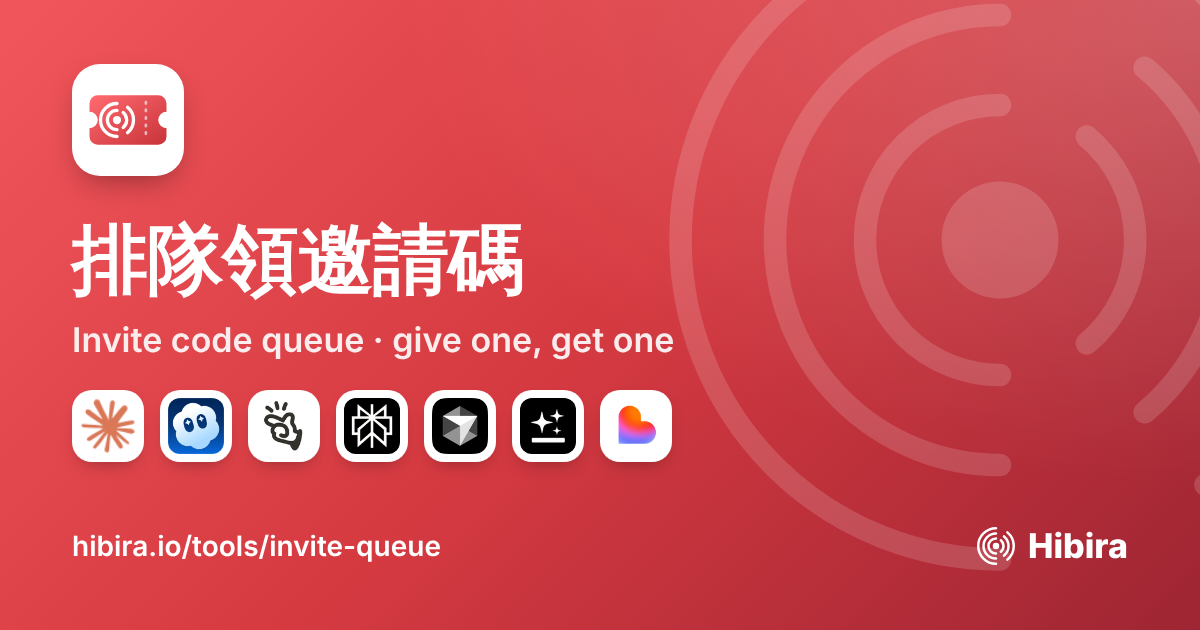
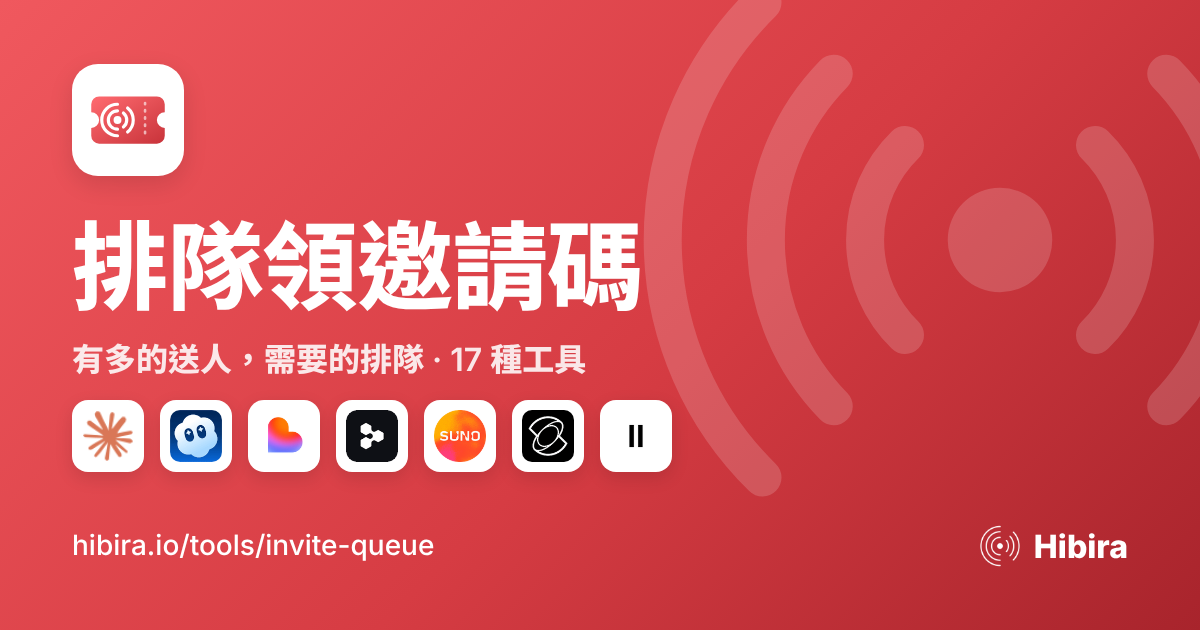
Invite queue: a first page per language with its own share preview
A link posted in English showed the zh-TW share image with a mixed
Chinese and English description. Now /en/, /zh-cn/, /ja/, /ko/, /th/ and
/vi/ each have their own title, description and share image (zh-TW stays
at /), with hreflang links between them. The interface follows the path
and remembers it, so /get and /give stay in that language. The share
images show today's brands.

Claude-Session: https://claude.ai/code/session_01SHtsCB1pgLC5Q799EmTqhW

diff --git a/nextjs-invite-queue/lib/seo.ts b/nextjs-invite-queue/lib/seo.ts
@@ -1,0 +1,76 @@
+import type { Metadata } from 'next';
+import type { Lang } from './i18n';
+
+// What link previews and search engines show for the hosted copy, one set
+// per language. The first page (/) is zh-TW; /en/, /ja/ and the rest each
+// carry their own title, description and share image, so a link posted in
+// one language previews in that language. The interface follows the path
+// too (lib/i18n.ts).
+
+export const LANG_SLUGS: Record<Lang, string> = {
+  en: 'en',
+  'zh-TW': 'zh-tw',
+  'zh-CN': 'zh-cn',
+  ja: 'ja',
+  ko: 'ko',
+  th: 'th',
+  vi: 'vi',
+};
+
+const OG_LOCALES: Record<Lang, string> = { en: 'en_US', 'zh-TW': 'zh_TW', 'zh-CN': 'zh_CN', ja: 'ja_JP', ko: 'ko_KR', th: 'th_TH', vi: 'vi_VN' };
+
+const TOOLS = 'Claude Code, Sora, Lovable, Windsurf, Replit, Kling, Suno, ElevenLabs';
+
+export const SEO: Record<Lang, { title: string; description: string }> = {
+  en: {
+    title: 'Invite code queue',
+    description: `Have spare invite codes? Give them away. Need one? Get in line, and codes go out in turn. Invite and referral codes for 17 tools: ${TOOLS} and more.`,
+  },
+  'zh-TW': {
+    title: '排隊領邀請碼',
+    description: `有多的邀請碼就送人，需要就來排隊，邀請碼依序發出。支援 17 種工具的邀請碼與推薦碼：${TOOLS} 等。`,
+  },
+  'zh-CN': {
+    title: '排队领邀请码',
+    description: `有多余的邀请码就送人，需要就来排队，邀请码按顺序发出。支持 17 种工具的邀请码和推荐码：${TOOLS} 等。`,
+  },
+  ja: {
+    title: '招待コード待ち行列',
+    description: `余った招待コードは譲って、欲しい人は列に並ぶだけ。コードは順番に届きます。${TOOLS} など 17 ツールの招待コードと紹介コードに対応。`,
+  },
+  ko: {
+    title: '초대 코드 대기열',
+    description: `남는 초대 코드는 나눠 주고, 필요하면 줄을 서세요. 코드는 순서대로 전달됩니다. ${TOOLS} 등 17개 도구의 초대 코드와 추천 코드를 지원합니다.`,
+  },
+  th: {
+    title: 'คิวรับโค้ดเชิญ',
+    description: `มีโค้ดเชิญเหลือก็แบ่งปัน อยากได้ก็มาต่อคิว โค้ดจะส่งให้ตามลำดับ รองรับโค้ดเชิญและโค้ดแนะนำของ 17 เครื่องมือ เช่น ${TOOLS}`,
+  },
+  vi: {
+    title: 'Hàng chờ nhận mã mời',
+    description: `Có mã mời dư thì tặng, cần thì xếp hàng, mã được gửi lần lượt. Hỗ trợ mã mời và mã giới thiệu của 17 công cụ: ${TOOLS} và nhiều hơn nữa.`,
+  },
+};
+
+/** The path of the first page in a language: '' for zh-TW, 'en/' for English. */
+export function langPath(lang: Lang): string {
+  return lang === 'zh-TW' ? '' : `${LANG_SLUGS[lang]}/`;
+}
+
+/** The first page's metadata in one language, for the hosted copy at `site`. */
+export function homeMetadata(lang: Lang, site: string): Metadata {
+  const { title, description } = SEO[lang];
+  const path = langPath(lang);
+  const image = { url: `${site}og-${LANG_SLUGS[lang]}.png`, width: 1200, height: 630, alt: title };
+  const languages: Record<string, string> = Object.fromEntries(
+    (Object.keys(LANG_SLUGS) as Lang[]).map((l) => [l, `${site}${langPath(l)}`]),
+  );
+  languages['x-default'] = site;
+  return {
+    title: `${title} | Hibira`,
+    description,
+    alternates: { canonical: `${site}${path}`, languages },
+    openGraph: { title, description, url: `${site}${path}`, siteName: 'Hibira', type: 'website', locale: OG_LOCALES[lang], images: [image] },
+    twitter: { card: 'summary_large_image', title, description, images: [image.url] },
+  };
+}

diff --git a/nextjs-invite-queue/app/layout.tsx b/nextjs-invite-queue/app/layout.tsx
@@ -8,21 +8,20 @@ import Pwa from '@/components/Pwa';
 import Faq from '@/components/Faq';
 import { FAQ } from '@/lib/faq';
 
-// The hosted copy is the one hibira.io serves at /tools/invite-queue/
-// (DEMO_BASE_PATH); another base path is named on demos.hibira.io.
-const BASE = process.env.NEXT_PUBLIC_BASE_PATH ?? '';
-const SITE = BASE.startsWith('/tools/') ? `https://hibira.io${BASE}/` : BASE ? `https://demos.hibira.io${BASE}/` : undefined;
-const TITLE = '排隊領邀請碼 · Invite code queue';
-const DESCRIPTION =
-  '有多的邀請碼就送人，需要就來排隊：Claude Code、Sora、Lovable、Windsurf、Replit、Kling、Suno、ElevenLabs 等 17 種工具的邀請碼與推薦碼。Give spare invite codes, line up for one and chat while you wait.';
+import { BASE, SITE } from '@/lib/site';
+import { SEO } from '@/lib/seo';
+
+// The pages without their own metadata (/get, /give) are zh-TW, like /;
+// the first page in other languages is /en/, /ja/ and so on (app/[lang]).
+const { title: TITLE, description: DESCRIPTION } = SEO['zh-TW'];
 
 export const metadata: Metadata = {
   title: SITE ? `${TITLE} | Hibira` : 'Invite code queue · Hibira example',
   description: SITE ? DESCRIPTION : 'Give spare invite codes, line up for one, and chat while you wait: a live queue built with Next.js and Hibira.',
   ...(SITE && {
     metadataBase: new URL(SITE),
-    openGraph: { title: TITLE, description: DESCRIPTION, url: SITE, siteName: 'Hibira', type: 'website', images: [{ url: 'og.png', width: 1200, height: 630, alt: TITLE }] },
-    twitter: { card: 'summary_large_image', title: TITLE, description: DESCRIPTION, images: ['og.png'] },
+    openGraph: { title: TITLE, description: DESCRIPTION, url: SITE, siteName: 'Hibira', type: 'website', images: [{ url: 'og-zh-tw.png', width: 1200, height: 630, alt: TITLE }] },
+    twitter: { card: 'summary_large_image', title: TITLE, description: DESCRIPTION, images: ['og-zh-tw.png'] },
     // Installable: "Add to Home Screen" opens it full screen, like an app.
     manifest: `${BASE}/manifest.webmanifest`,
     appleWebApp: { capable: true, title: '邀請碼排隊', statusBarStyle: 'default' },

diff --git a/nextjs-invite-queue/lib/i18n.ts b/nextjs-invite-queue/lib/i18n.ts
@@ -1,6 +1,7 @@
-// The languages of the demo's interface, the same seven as hibira.io. The
-// first visit follows ?lang= or the browser's languages; the choice in the
-// language menu is remembered in this browser.
+// The languages of the demo's interface, the same seven as hibira.io. A
+// language path (/en/, /ja/…) or ?lang= sets it and is remembered, so /get
+// and /give stay in it; otherwise the choice in the language menu, then the
+// browser's languages.
 
 export const LANGS = ['en', 'zh-TW', 'zh-CN', 'ja', 'ko', 'th', 'vi'] as const;
 export type Lang = (typeof LANGS)[number];
@@ -29,9 +30,18 @@ export function toLang(tag: string | null | undefined): Lang | null {
   return LANGS.find((l) => l === t.split('-')[0]) ?? null;
 }
 
+// The first pages under a language path (app/[lang]); zh-TW is /.
+const PATH_LANGS = ['en', 'zh-cn', 'ja', 'ko', 'th', 'vi'];
+
 export function detectLang(): Lang {
-  const fromURL = toLang(new URLSearchParams(location.search).get('lang'));
-  if (fromURL) return fromURL;
+  const segment = location.pathname.split('/').filter(Boolean).pop() ?? '';
+  const fromURL = toLang(PATH_LANGS.includes(segment) ? segment : new URLSearchParams(location.search).get('lang'));
+  if (fromURL) {
+    try {
+      localStorage.setItem(KEY, fromURL);
+    } catch {}
+    return fromURL;
+  }
   try {
     const saved = toLang(localStorage.getItem(KEY));
     if (saved) return saved;

diff --git a/nextjs-invite-queue/app/[lang]/page.demo.tsx b/nextjs-invite-queue/app/[lang]/page.demo.tsx
@@ -1,0 +1,29 @@
+import type { Metadata } from 'next';
+import DemoQueuePage from '@/components/DemoQueuePage';
+import { LANGS, type Lang } from '@/lib/i18n';
+import { homeMetadata, LANG_SLUGS } from '@/lib/seo';
+import { SITE } from '@/lib/site';
+
+// The first page in each language other than zh-TW (which is /): /en/,
+// /ja/ and so on, so a shared link previews in the language it was
+// posted in.
+const OTHER = LANGS.filter((l) => l !== 'zh-TW');
+
+export const dynamicParams = false;
+
+export function generateStaticParams() {
+  return OTHER.map((l) => ({ lang: LANG_SLUGS[l] }));
+}
+
+function langOf(slug: string): Lang {
+  return OTHER.find((l) => LANG_SLUGS[l] === slug) ?? 'en';
+}
+
+export async function generateMetadata({ params }: { params: Promise<{ lang: string }> }): Promise<Metadata> {
+  const { lang } = await params;
+  return SITE ? homeMetadata(langOf(lang), SITE) : {};
+}
+
+export default function LangPage() {
+  return <DemoQueuePage view="home" />;
+}

diff --git a/nextjs-invite-queue/lib/site.ts b/nextjs-invite-queue/lib/site.ts
@@ -1,0 +1,4 @@
+// The hosted copy is the one hibira.io serves at /tools/invite-queue/
+// (DEMO_BASE_PATH); another base path is named on demos.hibira.io.
+export const BASE = process.env.NEXT_PUBLIC_BASE_PATH ?? '';
+export const SITE = BASE.startsWith('/tools/') ? `https://hibira.io${BASE}/` : BASE ? `https://demos.hibira.io${BASE}/` : undefined;

diff --git a/nextjs-invite-queue/app/page.demo.tsx b/nextjs-invite-queue/app/page.demo.tsx
@@ -1,4 +1,9 @@
+import type { Metadata } from 'next';
 import DemoQueuePage from '@/components/DemoQueuePage';
+import { homeMetadata } from '@/lib/seo';
+import { SITE } from '@/lib/site';
+
+export const metadata: Metadata = SITE ? homeMetadata('zh-TW', SITE) : {};
 
 export default function DemoPage() {
   return <DemoQueuePage view="home" />;
